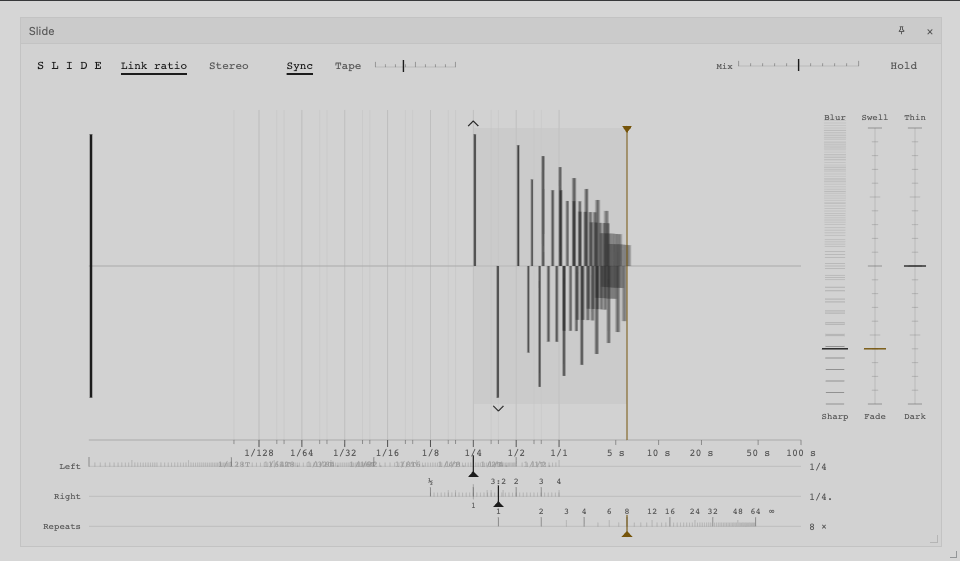
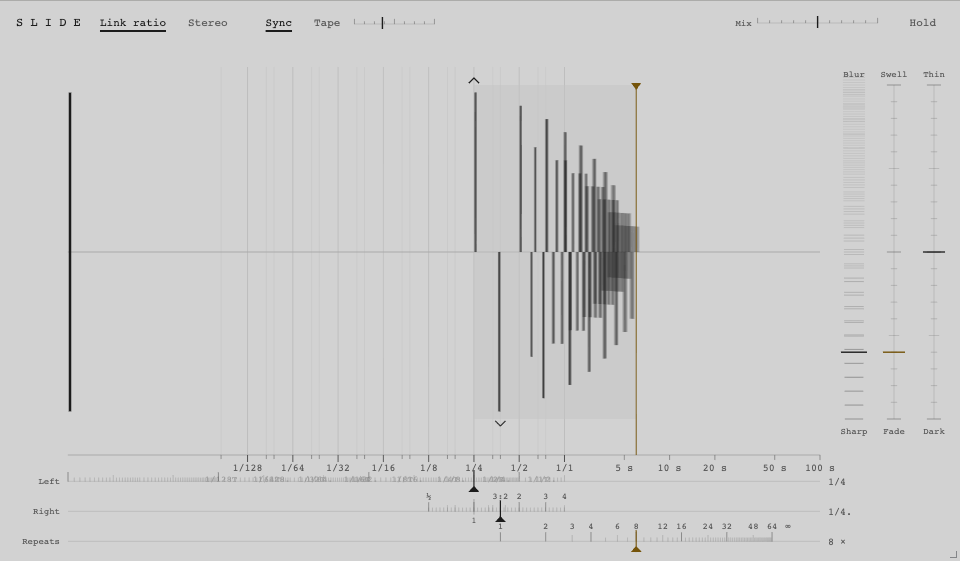
Drop the frame: the face fills the plug-in window
Claude-Session: https://claude.ai/code/session_01MW5em5EEwHpyWYnVgDUuYD

diff --git a/ui/main.js b/ui/main.js
@@ -5,7 +5,6 @@
 //   plugin -> UI  : parameter<TAB>… lines, metadata-end, values:<id>=<v>;…,
 //                   visual:<inL>,<inR>,<wetL>,<wetR>,<leftMs>,<rightMs>,<hold>,<bpm>
 
-import './compost/components/compost-window.js';
 import './face.js';
 
 const encoder = new TextEncoder();
@@ -18,33 +17,9 @@ const specs = [];
 // gesture the user is in the middle of.
 const editing = new Set();
 
-// A compost-window frames the face, always. A plug-in window is sized by the host
-// after the page loads — often from nothing — so the frame is measured every time the
-// view changes size, never once at startup. The face itself narrows by width, inside
-// its own canvas; nothing here asks what kind of device it is.
-const pad = 20, top = 16, headerHeight = 26;
-
-const frame = document.createElement('compost-window');
-frame.setAttribute('heading', 'Slide');
-frame.setAttribute('static', '');
-frame.setAttribute('open', '');
-const holder = document.createElement('div');
-holder.className = 'full';
-holder.append(face);
-frame.append(holder);
-document.querySelector('#face-host').append(frame);
-
-function reframe() {
-  // The host's window is the plug-in's whole world, so the frame fills it.
-  frame.setAttribute('width', String(Math.max(320, innerWidth - pad * 2)));
-  frame.setAttribute('height', String(Math.max(240, innerHeight - top * 2 - headerHeight)));
-  frame.moveTo?.(pad, top);
-}
-
-// `resize` alone misses a webview that is given its size before the first frame.
-new ResizeObserver(reframe).observe(document.documentElement);
-addEventListener('resize', reframe);
-reframe();
+// The face is the plug-in window's whole world: no frame, no chrome. The host sizes
+// the window after the page loads; the face narrows by width inside its own canvas.
+document.querySelector('#face-host').append(face);
 
 // ---- UI -> plugin -----------------------------------------------------------
 

diff --git a/ui/index.html b/ui/index.html
@@ -13,15 +13,12 @@
 <link rel="stylesheet" href="https://fonts.googleapis.com/css2?family=IBM+Plex+Mono:wght@400;500&family=IBM+Plex+Sans:wght@400;500&display=swap">
 <style>
 :root{ --bg:#d6d6d6; --panel:#d2d2d2; --band:#c3c3c3; --ink:#1c1c1c; --ink2:#4f4f4f; --dim:#5d5d5d; --hair:#a9a9a9; --track:#b9b9b9; --acc:#75540a; color-scheme:light;
-  --compost-ui-font:"IBM Plex Sans",system-ui,sans-serif; --compost-accent:var(--acc);
-  --compost-window-bg:var(--panel); --compost-window-text:var(--ink); --compost-window-border:var(--band); --compost-window-muted:var(--dim); --compost-window-header-height:26px; --compost-window-header-font-size:11px; --compost-window-close-color:var(--dim); --compost-window-close-hover-color:var(--ink); --compost-window-grip-color:var(--hair); --compost-window-focus:var(--acc); }
+  --compost-ui-font:"IBM Plex Sans",system-ui,sans-serif; --compost-accent:var(--acc); }
 :root[data-color-scheme="dark"]{ --bg:#292929; --panel:#2e2e2e; --band:#3a3a3a; --ink:#dedede; --ink2:#bdbdbd; --dim:#909090; --hair:#575757; --track:#3a3a3a; --acc:#ddc07e; color-scheme:dark }
 *{box-sizing:border-box}
 html,body{width:100%;height:100%}
-body{margin:0;background:var(--bg);color:var(--ink);font-family:var(--compost-ui-font);font-size:13px;min-height:100vh;padding:0}
-compost-window{--compost-window-bg:var(--panel);--compost-window-text:var(--ink);--compost-window-border:var(--band);--compost-window-muted:var(--dim);--compost-window-header-height:26px;--compost-window-header-font-size:11px;--compost-window-close-color:var(--dim);--compost-window-close-hover-color:var(--ink);--compost-window-grip-color:var(--hair);--compost-window-focus:var(--acc)}
+body{margin:0;background:var(--panel);color:var(--ink);font-family:var(--compost-ui-font);font-size:13px;min-height:100vh;padding:0}
 #face-host{height:100%}
-.full{position:relative;height:100%;min-width:0}
 </style>
 </head>
 <body>

diff --git a/ui/dev/index.html b/ui/dev/index.html
@@ -18,8 +18,7 @@
 { "imports": {
   "/ui/compost/value-control.js": "/external/compost/src/value-control.js",
   "/ui/compost/parameter-controller.js": "/external/compost/src/parameter-controller.js",
-  "/ui/compost/components/compost-button.js": "/external/compost/src/components/compost-button.js",
-  "/ui/compost/components/compost-window.js": "/external/compost/src/components/compost-window.js"
+  "/ui/compost/components/compost-button.js": "/external/compost/src/components/compost-button.js"
 } }
 </script>
 <style>
